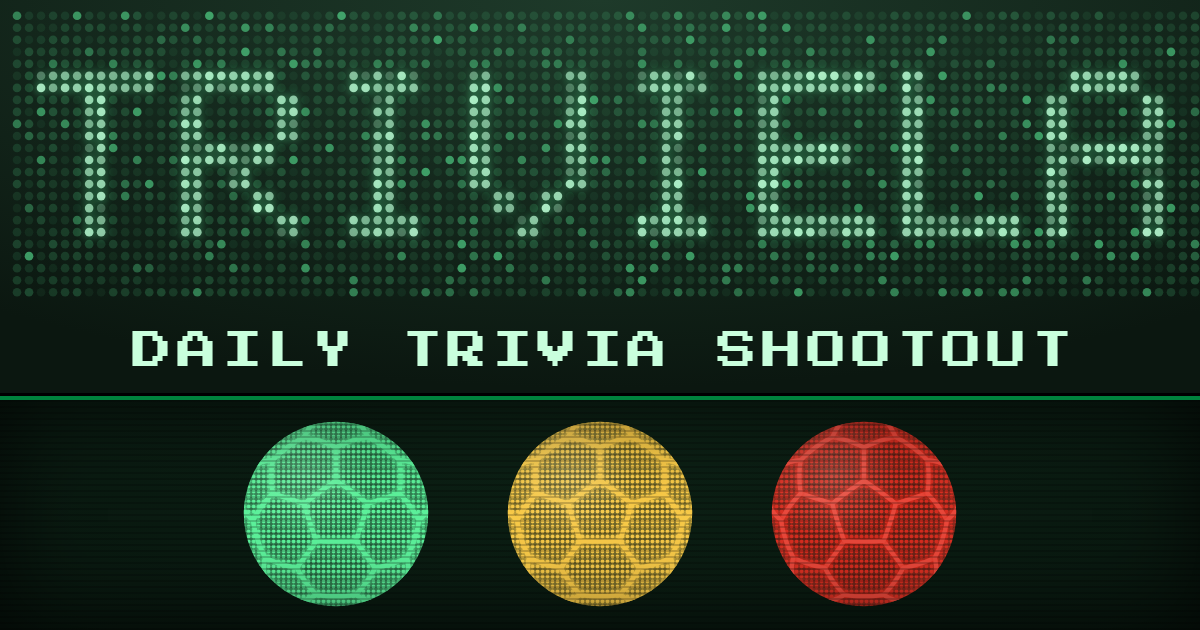
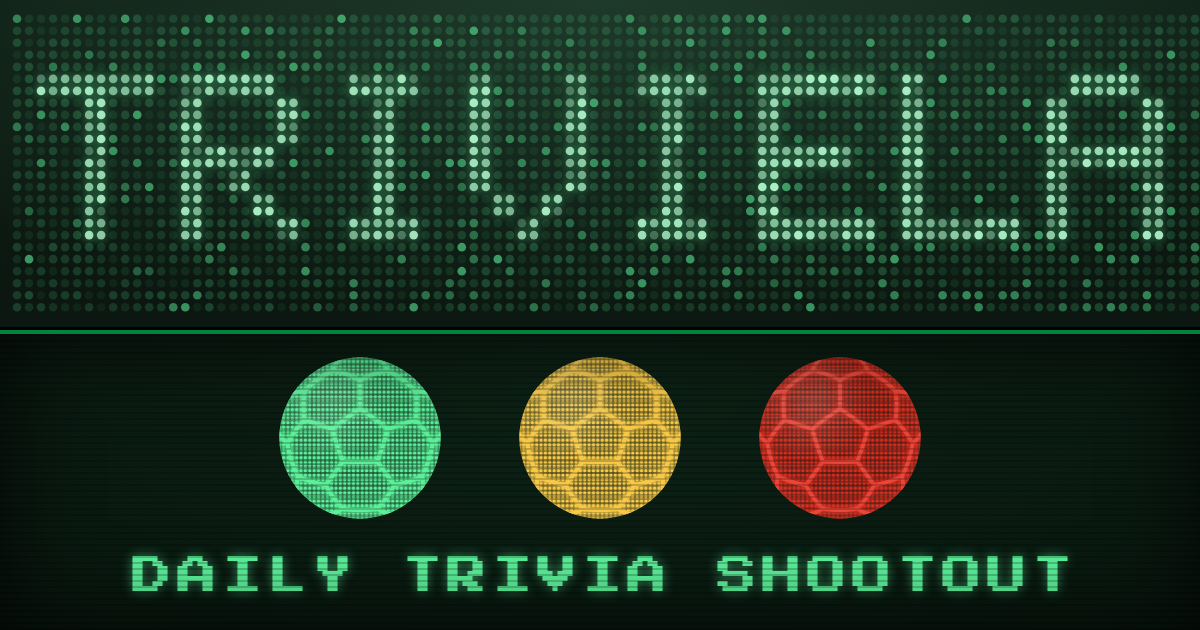
The link preview's line moves under the balls, in the screen's own caption slot
Morg, Oct 31, 2026: "Text below the balls would be better." The sign band holds the dots alone again, and DAILY TRIVIA
SHOOTOUT sits under the three balls on the screen, cloned from the board's Pick a card line, in its glow.

Claude-Session: https://claude.ai/code/session_01EtV5RnCjZuXwzvwNgt1oVQ

Changed region(s): [[0.0, 0.0302, 1.0, 0.9651]]

diff --git a/tools/og.py b/tools/og.py
@@ -13,8 +13,8 @@ as the game draws one in a string, its own pixel ball, so it looks the same on e
 Oct 31, 2026: cards with hooks were too specific, the rest is visuals): each shows its color card and one of the game's own
 marks, the black-and-white ball for a right answer or the red ✕ for a miss, cloned from a played tile on the board.
 
-The directions: A, lights, the sign's dot field over the CRT with the three balls lit under it, Morg's line in the sign's own
-subheading slot under the dots (the site's, Morg's pick, Oct 31, 2026).
+The directions: A, lights, the sign's dot field over the CRT with the three balls lit under it and Morg's line under the balls,
+in the screen's own caption slot (the site's, Morg's pick, Oct 31, 2026: "the art is compelling", "text below the balls").
 B, collage, the cabinet's cream and green trim, the sign in its rim at a tilt, three keys scattered, the balls and the line in ink.
 C, three keys, the control panel's black, the sign across the top, a key of each color and the line in the screen's glow.
 """
@@ -26,8 +26,8 @@ ROOT = os.path.dirname(os.path.dirname(os.path.abspath(__file__)))
 HTML = open(os.path.join(ROOT, 'docs', 'index.html')).read()
 DIRECTION = 'A'   # the poster the site uses: A, Morg's pick (Oct 31, 2026: "the art is compelling")
 W, H = 1200, 630
-LINE = 'daily trivia shootout'   # Morg's line under the name (Oct 31, 2026, as he wrote it: no ⚽, since the colored balls carry it), in the sign's own subheading slot
-CAPS = True   # the line in capitals, as the cabinet's sign sets this same subheading (False keeps it lowercase, as Morg typed it)
+LINE = 'daily trivia shootout'   # Morg's line (Oct 31, 2026, as he wrote it: no ⚽, since the colored balls carry it), under the balls on the screen
+CAPS = True   # the line in capitals, as the cabinet sets this same line on its sign (False keeps it lowercase, as Morg typed it)
 MARKS = [1, 1, 2]   # the three keys, green, yellow, red: 1 the ball (right), 2 the ✕ (a miss), a day like the share grid's ⚽⚽❌
 
 CSS = """
@@ -51,15 +51,16 @@ CSS = """
 #poster .trim { top: 0; bottom: 0; width: 14px; background: var(--body-dark); }
 #poster .trim.l { left: 0; } #poster .trim.r { right: 0; }
 
-/* A: the sign alone, the cabinet's own stack edge to edge: the dot board over the screen, the three balls lit on it */
+/* A: the sign alone, the cabinet's own stack edge to edge: the dot board over the screen, the three balls lit on it and Morg's line under them */
 #poster[data-d="A"] { background: radial-gradient(130% 110% at 50% 60%, #0D2216 0%, #07130C 70%); }
-#poster[data-d="A"] .marquee { left: 0; top: 0; width: 1200px; height: 396px; border-radius: 0; box-shadow: inset 0 -3px 0 #000, 0 4px 0 var(--body-dark); }
-#poster[data-d="A"] .marquee.dm canvas { inset: 8px 0 96px; height: calc(100% - 104px); }
-#poster[data-d="A"] .marquee.dm .subhead { visibility: visible; font-size: 40px; letter-spacing: 5px; translate: 5px 0; }   /* the sign's own subheading slot at 5 device pixels a font pixel, placed by drawSign between the dots and the rim */
-#poster[data-d="A"] .marquee.dm .subhead.lc { text-transform: none; }
-#poster[data-d="A"] .scan { top: 400px; }
-#poster[data-d="A"] .balls { left: 50%; top: 418px; transform: translateX(-50%); column-gap: 72px; }
-#poster[data-d="A"] .balls .ball { width: 192px; }
+#poster[data-d="A"] .marquee { left: 0; top: 0; width: 1200px; height: 330px; border-radius: 0; box-shadow: inset 0 -3px 0 #000, 0 4px 0 var(--body-dark); }
+#poster[data-d="A"] .marquee.dm canvas { inset: 8px 0 12px; height: calc(100% - 20px); }
+#poster[data-d="A"] .scan { top: 334px; }
+#poster[data-d="A"] .balls { left: 50%; top: 354px; transform: translateX(-50%); column-gap: 72px; }
+#poster[data-d="A"] .balls .ball { width: 168px; }
+#poster[data-d="A"] .pick { left: 0; right: 0; top: 556px; margin: 0; text-align: center; text-shadow: 0 0 12px rgba(92,240,154,.55); }   /* the screen's own caption slot (Pick a card), at 5 device pixels a font pixel, under the balls (Morg, Oct 31, 2026) */
+#poster[data-d="A"] .pick .pk-t { font-size: 40px; line-height: 1; letter-spacing: 5px; translate: 5px 0; }
+#poster[data-d="A"] .pick.lc .pk-t { text-transform: none; }
 
 /* B: the collage on the cabinet's cream body, with its green trim */
 #poster[data-d="B"] { background: var(--body); }
@@ -110,9 +111,9 @@ async (o) => {
   // Morg's line, the ⚽ as the sign's own pixel ball (the game's way of drawing one in a string)
   const ball = Q('.subhead .tball');
   const line = () => { const p = document.createElement('p'); p.className = 'line'; p.append('daily ', ball.cloneNode(true), ' trivia'); return p; };
-  if (o.dir === 'A') {   // the sign's own subheading carries Morg's line, in the slot the cabinet's sign uses for its subheading
-    const sub = sign.querySelector('.subhead'); sub.textContent = o.line; sub.classList.toggle('lc', !o.caps);
-    P.append(sign, balls, el('scan'));
+  if (o.dir === 'A') {   // Morg's line under the balls, in the screen's own caption slot (the board's Pick a card line), cloned from the board
+    const pick = Q('#p-hint .pick').cloneNode(true), t = pick.querySelector('.pk-t'); t.textContent = o.line; t.removeAttribute('style'); t.removeAttribute('data-tid');
+    pick.classList.toggle('lc', !o.caps); P.append(sign, balls, pick, el('scan'));
   }
   if (o.dir === 'B') { P.append(el('trim l'), el('trim r'), sign, el('crt', el('screen', balls)), ...o.marks.map(key), line()); }
   if (o.dir === 'C') { P.append(sign, ...o.marks.map(key), line()); }
